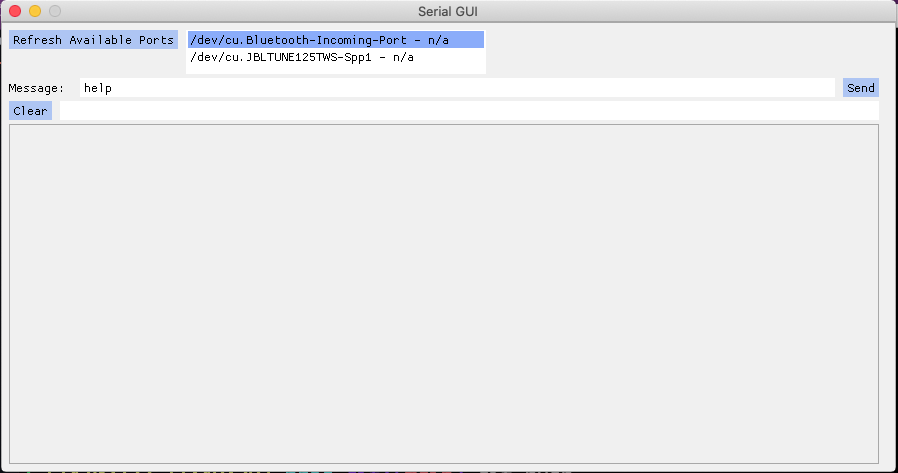
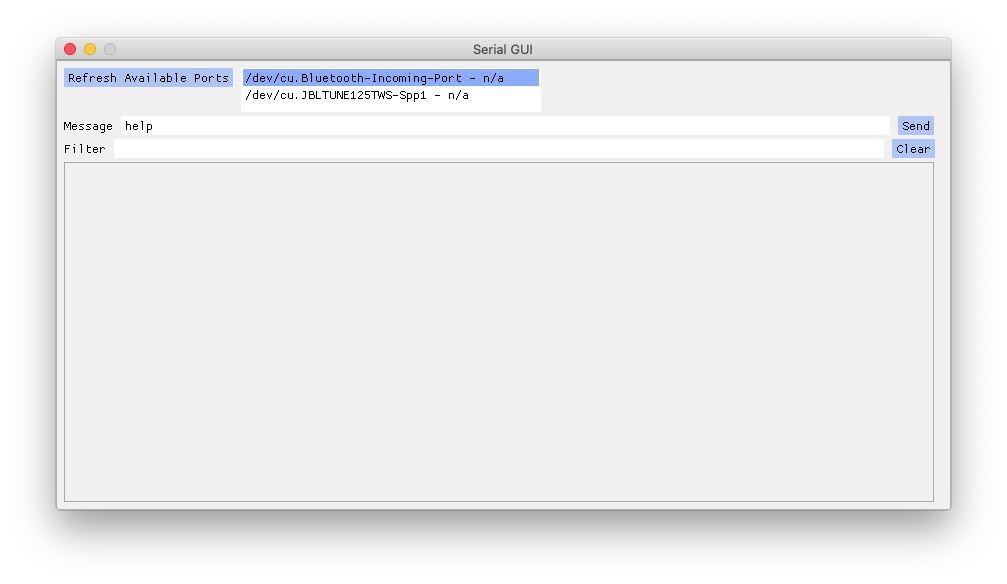
* Aligned Message and Filter * fix problem with sending message * Changed Preview

Changed region(s): [[0.0, 0.0, 1.0, 1.0]]

diff --git a/serial_gui.py b/serial_gui.py
@@ -46,17 +46,16 @@ class serial_ui():
 
     def create_ui_msg_column(self):
         with dpg.group(horizontal=True):
-            dpg.add_text(default_value="Message: ")
-            user_msg = dpg.add_input_text(tag="usrMsgTxt", default_value="help", width=755)
+            dpg.add_text(default_value="Message")
+            user_msg = dpg.add_input_text(tag="usrMsgTxt", default_value="help", width=769)
             dpg.add_button(tag="sendMsgBtn", label="Send",
                 callback=self.send_msg_to_serial_port_callback, user_data={'userMsgTag': user_msg})
 
     def create_column_above_logger(self):
         with dpg.group(horizontal=True):
-            # Clear button
+            dpg.add_text(default_value="Filter")
+            dpg.add_input_text(callback=lambda sender: dpg.set_value(self.filter_id, dpg.get_value(sender)), width=770)
             dpg.add_button(label="Clear", callback=lambda: dpg.delete_item(self.filter_id, children_only=True))
-            # Filter Text
-            dpg.add_input_text(callback=lambda sender: dpg.set_value(self.filter_id, dpg.get_value(sender)), width=819)
 
     def create_logger_window(self):
         ## this creates a window at bottom
@@ -118,12 +117,13 @@ class serial_ui():
         user_data:
         any python object you want to send to the function
         """
+        msg_to_send = dpg.get_value(user_data['userMsgTag'])
+
         if not self.SELECTED_DEVICE:
             print("User is not selected any device.")
-        if not self.my_serial.connected:
+        elif not self.my_serial.connected:
             print("Device is not connected")
-        msg_to_send = dpg.get_value(user_data['userMsgTag'])
-        if not msg_to_send:
+        elif not msg_to_send:
             print("No message.")
         else:
             self.my_serial.write_to_serial(msg_to_send)
